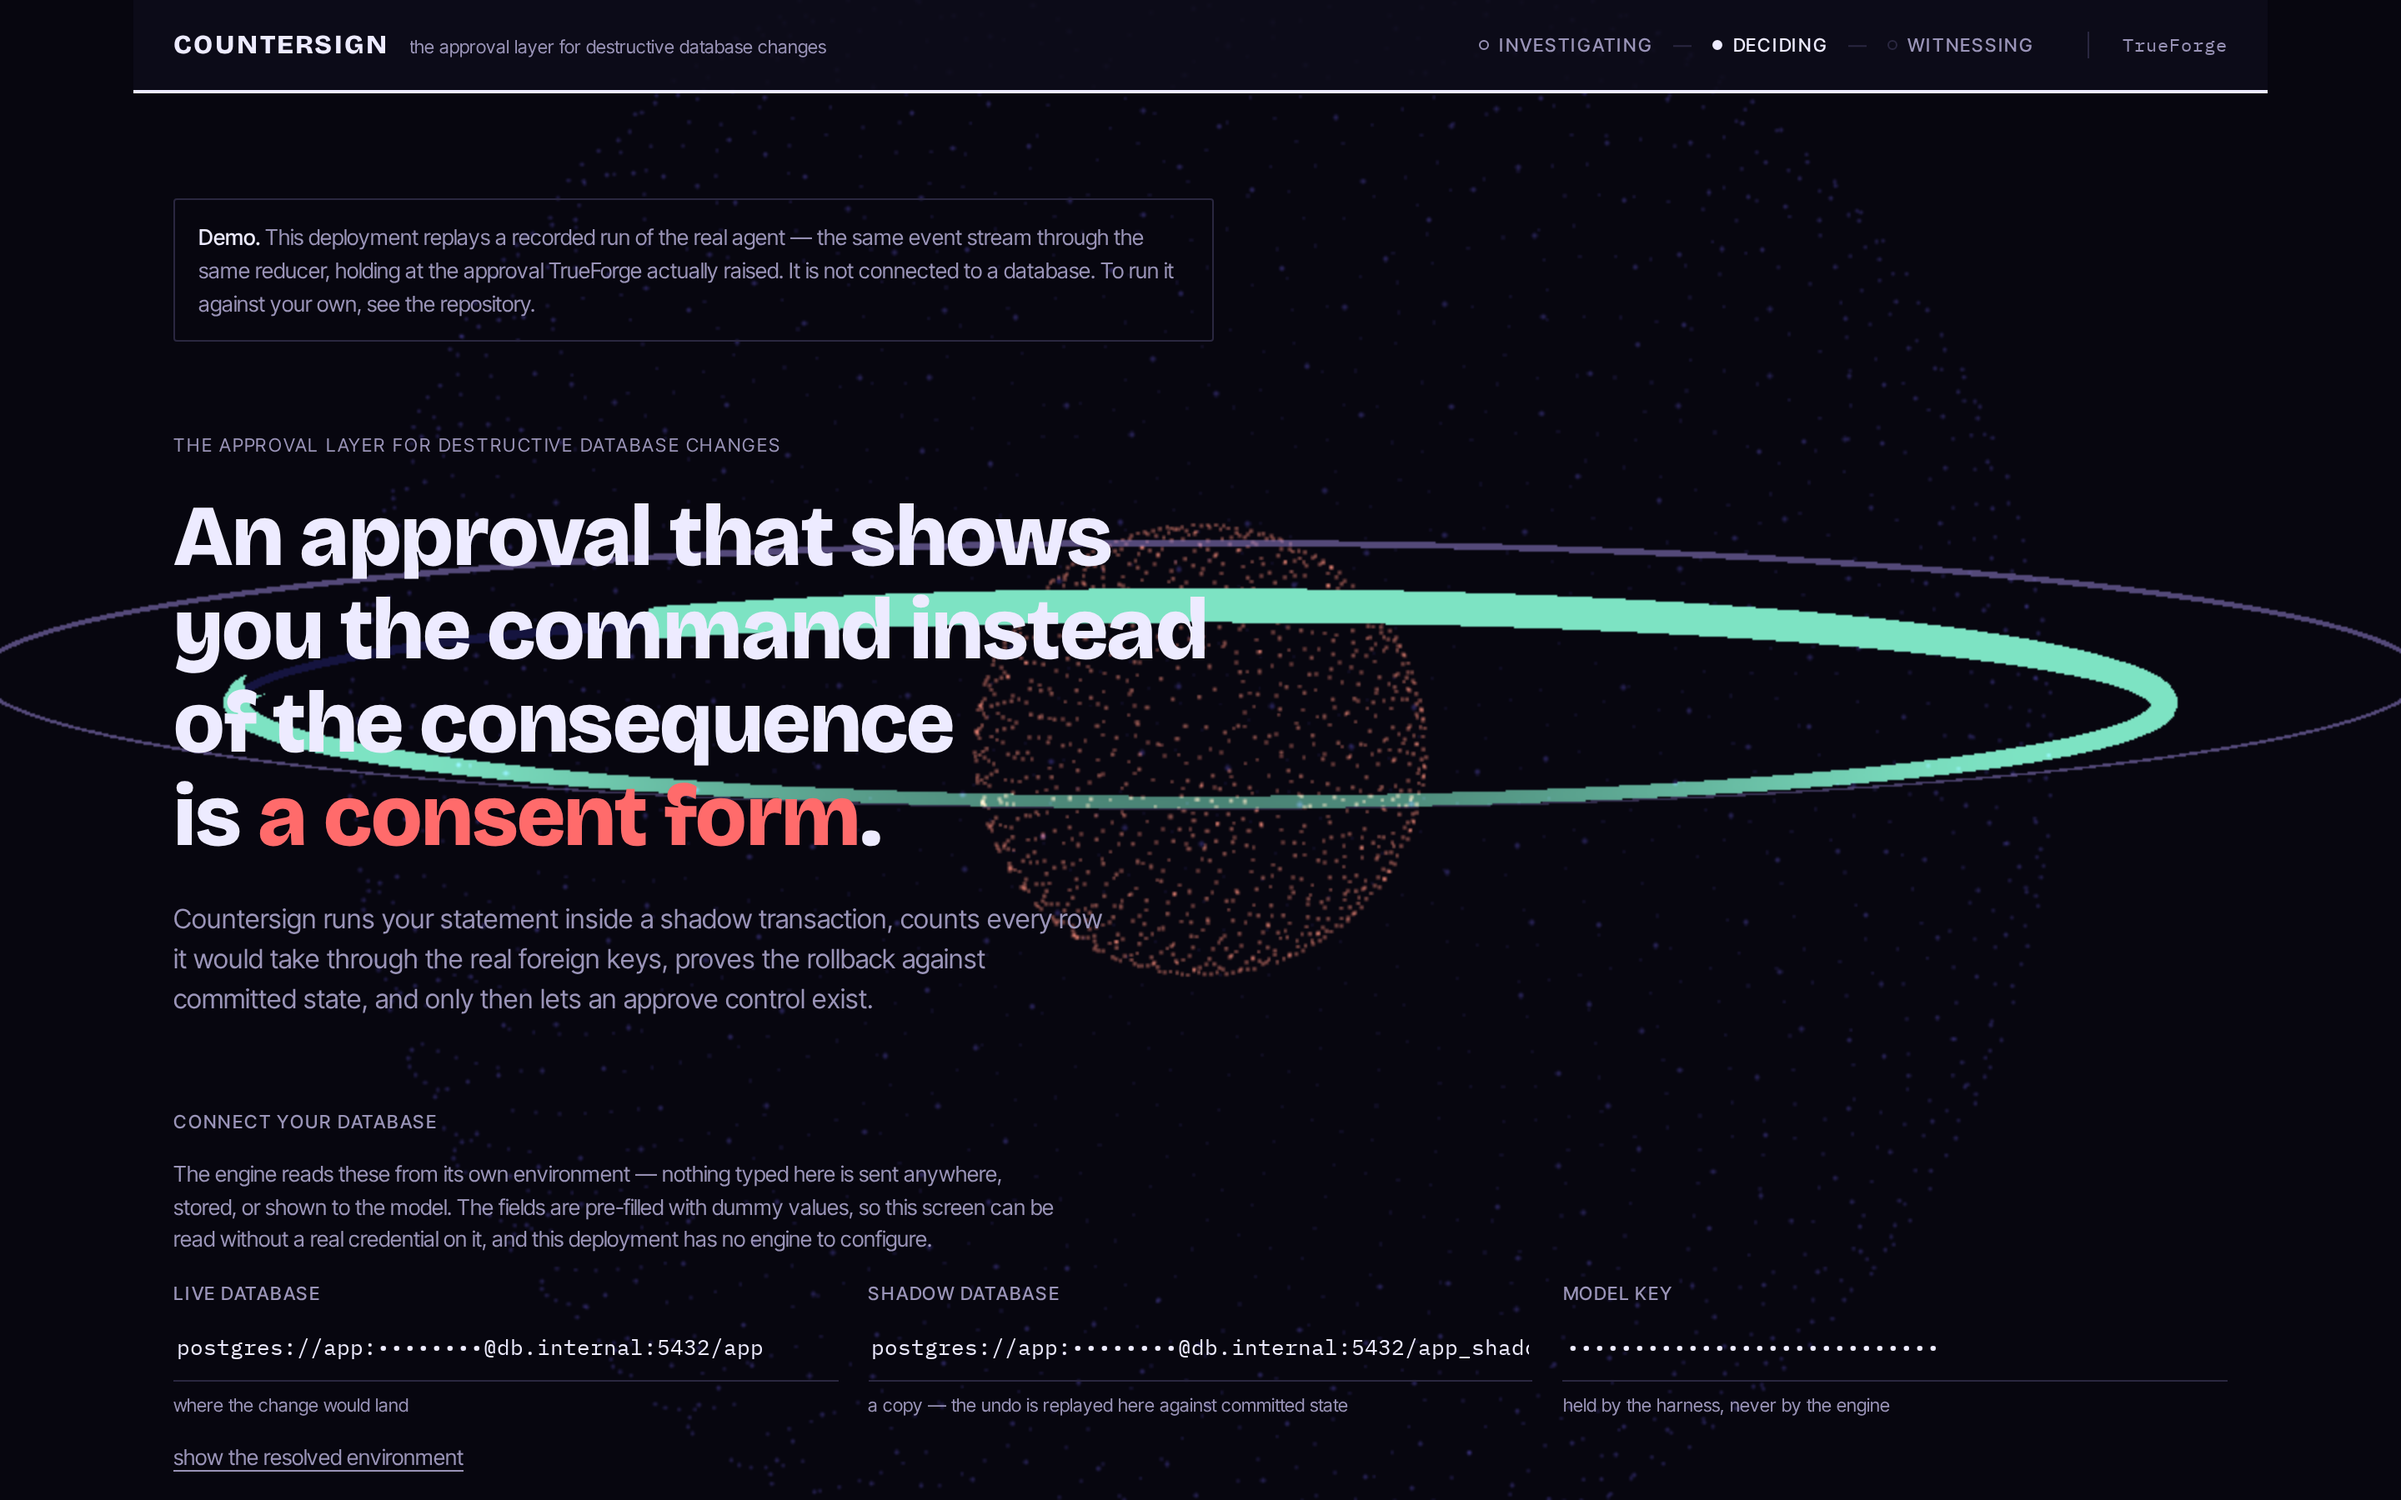
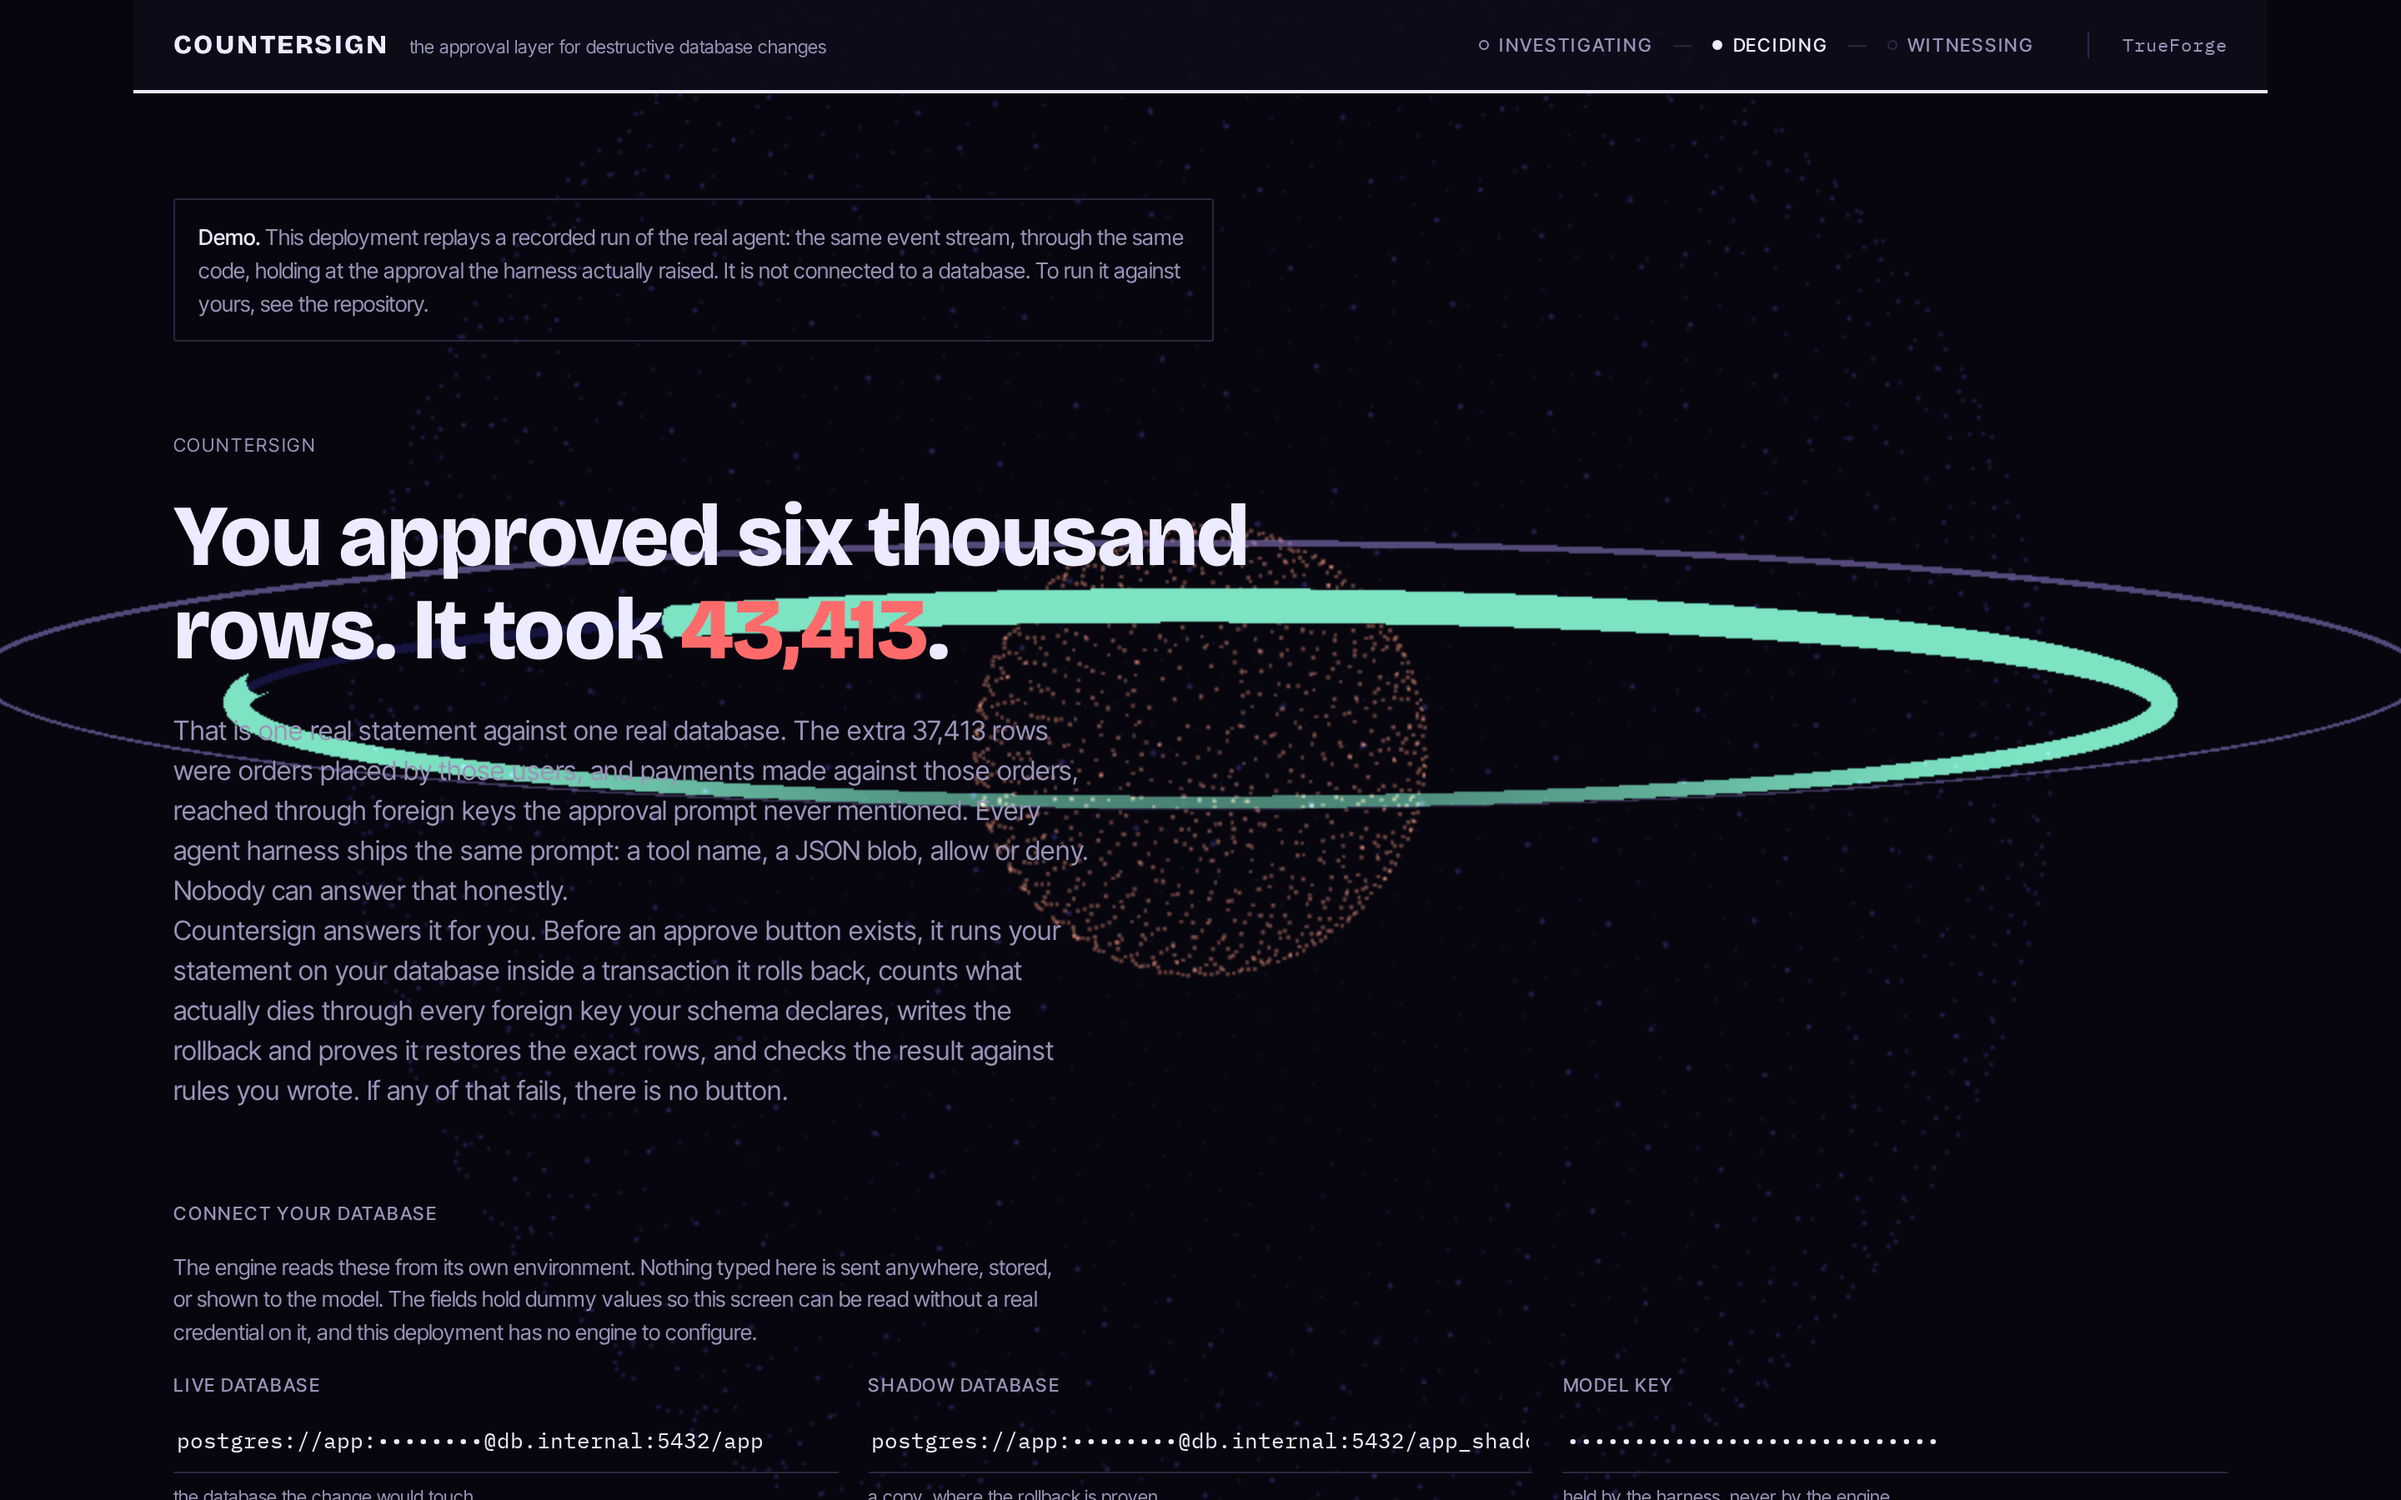
Let anyone point the console at their own harness and engine
The endpoints were configurable only at build time, which is no use to
someone visiting a deployment: pointing it at your own stack meant forking
and rebuilding. The connect screen now takes an agent harness address and a
Countersign engine address beside the database fields.

Three layers resolve, most specific first: what the operator typed, then the
build's environment, then the local defaults a checkout uses. Typed values
live in that browser alone and there is a link back to the defaults.

They are addresses, not credentials. No database URL and no model key passes
through the browser; the engine reads its connection strings from its own
environment and the harness holds the model key. That distinction is the
reason this screen can exist at all.

Saving reloads the page. The harness client and the engine poller are
module scope singletons created before React renders, so a new address only
takes effect on a fresh load, and silently keeping the old connection while
the form showed a new one would be the worst of both.

The harness field is not TrueForge specific. Anything speaking the same
session and turn API, raising an approval the console can answer, will work.

diff --git a/console/src/shell/Landing.tsx b/console/src/shell/Landing.tsx
@@ -8,6 +8,7 @@
 // environment the engine expects, so the operator can copy it rather than hunt
 // through a README.
 import { useState } from 'react'
+import { clearEndpoints, endpoints, isOverridden, saveEndpoints } from '../endpoints'
 
 // Dummy by design. Real credentials never belong in a form that will be filmed,
 // and these are shaped like the real thing so the screen can be checked without
@@ -25,6 +26,11 @@ export function Landing({ onEnter, demo = false }: Props) {
   const [shadow, setShadow] = useState(SAMPLE.shadow)
   const [key, setKey] = useState(SAMPLE.key)
   const [statement, setStatement] = useState("DELETE FROM users WHERE last_active < '2025-01-01'")
+  // Addresses, not secrets. These point the console at a harness and an engine
+  // running anywhere; no credential passes through here.
+  const [forge, setForge] = useState(endpoints().forge)
+  const [engine, setEngine] = useState(endpoints().engine)
+  const moved = forge.trim() !== endpoints().forge || engine.trim() !== endpoints().engine
   const [shown, setShown] = useState(false)
 
   const masked = (v: string) => v.replace(/\/\/([^:]+):([^@]+)@/, '//$1:••••••••@')
@@ -81,6 +87,18 @@ export function Landing({ onEnter, demo = false }: Props) {
           </label>
 
           <label className="connect-field">
+            <span className="t-label">Agent harness</span>
+            <input className="t-data" value={forge} onChange={(e) => setForge(e.target.value)} spellCheck={false} />
+            <span className="connect-hint">your TrueForge, or another runner speaking the same API</span>
+          </label>
+
+          <label className="connect-field">
+            <span className="t-label">Countersign engine</span>
+            <input className="t-data" value={engine} onChange={(e) => setEngine(e.target.value)} spellCheck={false} />
+            <span className="connect-hint">the service that measures and holds your credentials</span>
+          </label>
+
+          <label className="connect-field">
             <span className="t-label">Model key</span>
             <input className="t-data" type="password" value={key} onChange={(e) => setKey(e.target.value)} spellCheck={false} />
             <span className="connect-hint">held by the harness, never by the engine</span>
@@ -107,7 +125,14 @@ export function Landing({ onEnter, demo = false }: Props) {
         <h2 className="t-label">The change to measure</h2>
         <form
           className="landing-form"
-          onSubmit={(e) => { e.preventDefault(); if (statement.trim()) onEnter(statement.trim()) }}
+          onSubmit={(e) => {
+            e.preventDefault()
+            if (!statement.trim()) return
+            // A changed address only takes effect on a fresh page, so saving
+            // navigates rather than pretending the running clients moved.
+            if (moved) saveEndpoints({ forge, engine }, '/run')
+            else onEnter(statement.trim())
+          }}
         >
           <input
             className="submit-input t-data"
@@ -118,7 +143,15 @@ export function Landing({ onEnter, demo = false }: Props) {
           />
           <button type="submit" className="submit-go">{demo ? 'Watch the recorded run' : 'Measure it'}</button>
         </form>
-        <p className="landing-note">Nothing runs until you countersign.</p>
+        <p className="landing-note">
+          Nothing runs until you countersign.
+          {moved && ' Changing an address reloads the console onto it.'}
+          {isOverridden() && (
+            <> This browser is pointed at endpoints you set.{' '}
+              <button type="button" className="linkish" onClick={clearEndpoints}>use the defaults</button>
+            </>
+          )}
+        </p>
       </section>
 
       <section className="landing-about">

diff --git a/console/src/endpoints.ts b/console/src/endpoints.ts
@@ -1,0 +1,71 @@
+// Where the console looks for the two services behind it.
+//
+// Three layers, most specific first: what the operator typed on the connect
+// screen, then the build's environment, then the local defaults a checkout uses.
+// The typed values live in this browser only. They are addresses, not secrets —
+// no credential is stored here, and the engine still reads its database URLs from
+// its own environment.
+//
+// Read at module scope because the harness client and the engine poller are both
+// created once, before React renders. Changing an endpoint therefore reloads the
+// page rather than trying to rebuild those clients underneath a running session.
+const KEY = 'countersign-endpoints'
+
+export type Endpoints = { forge: string; engine: string }
+
+const DEFAULTS: Endpoints = {
+  // '/' keeps the dev server's proxy, which is what a local checkout uses.
+  forge: import.meta.env.VITE_TRUEFORGE_URL ?? '/',
+  engine: import.meta.env.VITE_COUNTERSIGN_SERVER ?? 'http://127.0.0.1:8977',
+}
+
+function stored(): Partial<Endpoints> {
+  try {
+    const raw = localStorage.getItem(KEY)
+    return raw ? (JSON.parse(raw) as Partial<Endpoints>) : {}
+  } catch {
+    // A browser with storage disabled still gets a working console on the defaults.
+    return {}
+  }
+}
+
+const trim = (u: string) => u.trim().replace(/\/+$/, '') || '/'
+
+const current: Endpoints = { ...DEFAULTS, ...(() => {
+  const s = stored()
+  const out: Partial<Endpoints> = {}
+  if (s.forge) out.forge = trim(s.forge)
+  if (s.engine) out.engine = trim(s.engine)
+  return out
+})() }
+
+export function endpoints(): Endpoints { return current }
+
+/** True when this browser is pointed at something other than the build's defaults. */
+export function isOverridden(): boolean {
+  const s = stored()
+  return Boolean(s.forge || s.engine)
+}
+
+/**
+ * Persist and reload. The reload is the point: the harness client and the engine
+ * poller are module-scope singletons, so a new address only takes effect on a
+ * fresh page. Silently keeping the old connection while the form showed a new one
+ * would be the worst of both.
+ */
+export function saveEndpoints(next: Partial<Endpoints>, go: string) {
+  try {
+    const merged = { ...stored() }
+    if (next.forge !== undefined) merged.forge = trim(next.forge)
+    if (next.engine !== undefined) merged.engine = trim(next.engine)
+    localStorage.setItem(KEY, JSON.stringify(merged))
+  } catch {
+    // Storage refused: the navigation still happens, on the previous endpoints.
+  }
+  window.location.assign(go)
+}
+
+export function clearEndpoints() {
+  try { localStorage.removeItem(KEY) } catch { /* nothing to clear */ }
+  window.location.assign('/')
+}

diff --git a/console/src/harness.ts b/console/src/harness.ts
@@ -3,12 +3,12 @@
 // pause/resume approval events. No wrapper; this IS the harness surface.
 import { useCallback, useEffect, useRef, useState } from 'react'
 import { TrueForge, isEventDelta, mergeEventDelta } from '@truefoundry/trueforge-sdk'
+import { endpoints } from './endpoints'
 
 // A hosted harness is addressed directly; the default keeps the dev server's
-// proxy, which is what a local checkout uses. Set VITE_TRUEFORGE_URL to point
-// the console at TrueForge running anywhere else.
-const FORGE_URL = import.meta.env.VITE_TRUEFORGE_URL ?? '/'
-const client = new TrueForge({ baseUrl: FORGE_URL, timeoutInSeconds: 600 })
+// proxy, which is what a local checkout uses. The address can come from the
+// build, or from what the operator typed on the connect screen — see endpoints.ts.
+const client = new TrueForge({ baseUrl: endpoints().forge, timeoutInSeconds: 600 })
 const RESUME_KEY = 'countersign-session'
 
 // `createdAt` is the event's own timestamp, carried through untouched so the transcript

diff --git a/console/src/state.ts b/console/src/state.ts
@@ -2,6 +2,7 @@
 // read-only /state endpoint (or a recorded fixture in replay mode) — measurements,
 // never model prose.
 import { useEffect, useState } from 'react'
+import { endpoints } from './endpoints'
 
 export type TableRow = {
   name: string
@@ -28,7 +29,7 @@ export type Simulation = {
 }
 export type EngineState = { simulations: Simulation[]; backends: Record<string, string> }
 
-const SERVER = import.meta.env.VITE_COUNTERSIGN_SERVER ?? 'http://127.0.0.1:8977'
+const SERVER = endpoints().engine
 
 export function useEngineState(pollMs = 1500, source?: string): EngineState {
   const [state, setState] = useState<EngineState>({ simulations: [], backends: {} })

diff --git a/docs/ADOPT.md b/docs/ADOPT.md
@@ -115,6 +115,23 @@ LIVE_DATABASE_URL=…
 SHADOW_DATABASE_URL=…
 ```
 
+### Connecting without rebuilding
+
+The build time variables above are for a deployment you control. Anyone else can point the
+console at their own services from the **connect screen** instead: it takes an **agent
+harness** address and a **Countersign engine** address alongside the database fields, stores
+them in that browser only, and reloads onto them. There is a link to fall back to the build's
+defaults.
+
+Those two fields are addresses, not credentials. No database URL and no model key passes
+through the browser: the engine reads its connection strings from its own environment, and the
+harness holds the model key. The reload is deliberate, because the harness client and the
+engine poller are created once when the page loads, and quietly keeping the old connection
+while the form displayed a new one would be worse than either.
+
+The harness field is not TrueForge specific. Anything that speaks the same session and turn
+API, and raises an approval the console can answer, will work.
+
 Two things to get right, both learned by doing it:
 
 **Raise the freshness window for a remote database.** An investigation against a local
